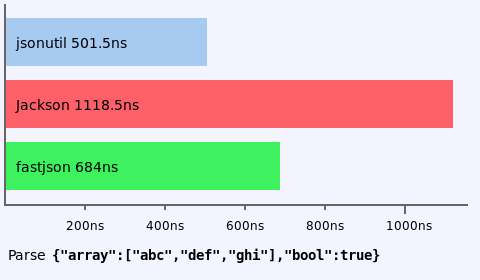
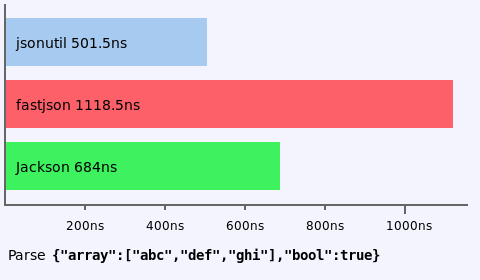
Working version of images in documentation (corrected text)

Changed region(s): [[0.0312, 0.3429, 0.3125, 0.4], [0.0312, 0.5714, 0.25, 0.6286]]

diff --git a/README.md b/README.md
@@ -63,7 +63,7 @@ There is extensive JavaDoc which should assist in the use of the library.
 
 On most benchmarks, the library significantly out-performs its competitors.  For example:
 
-![Benchmark diagram](https://github.com/pwall567/jsonutil/raw/develop/benchmark1.png "Benchmark 1")
+![Diagram](https://github.com/pwall567/jsonutil/raw/develop/benchmark1.png "Benchmark 1")
 
 ## Examples
 
